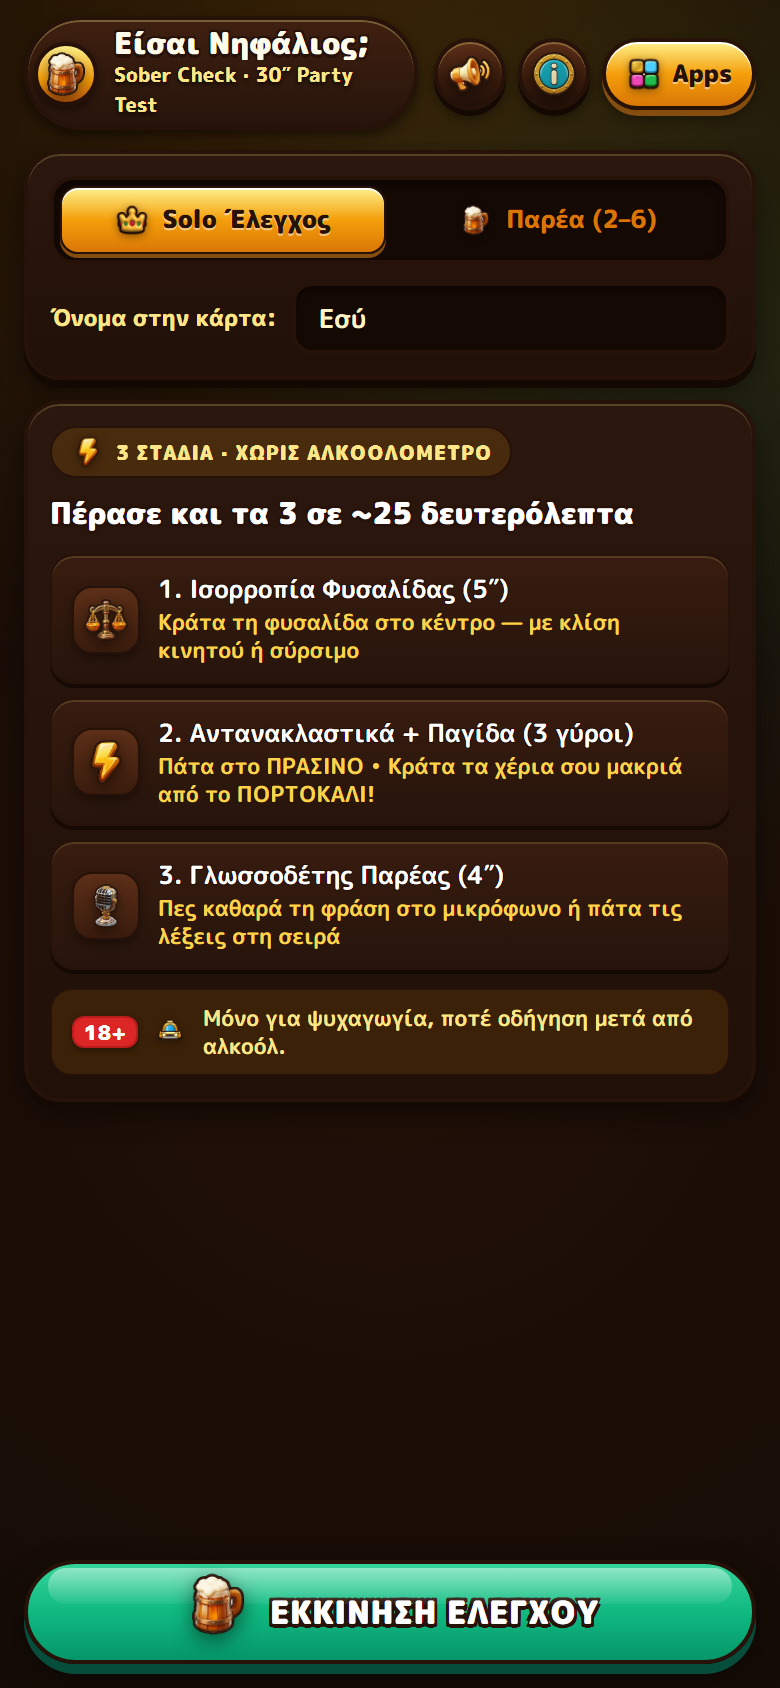
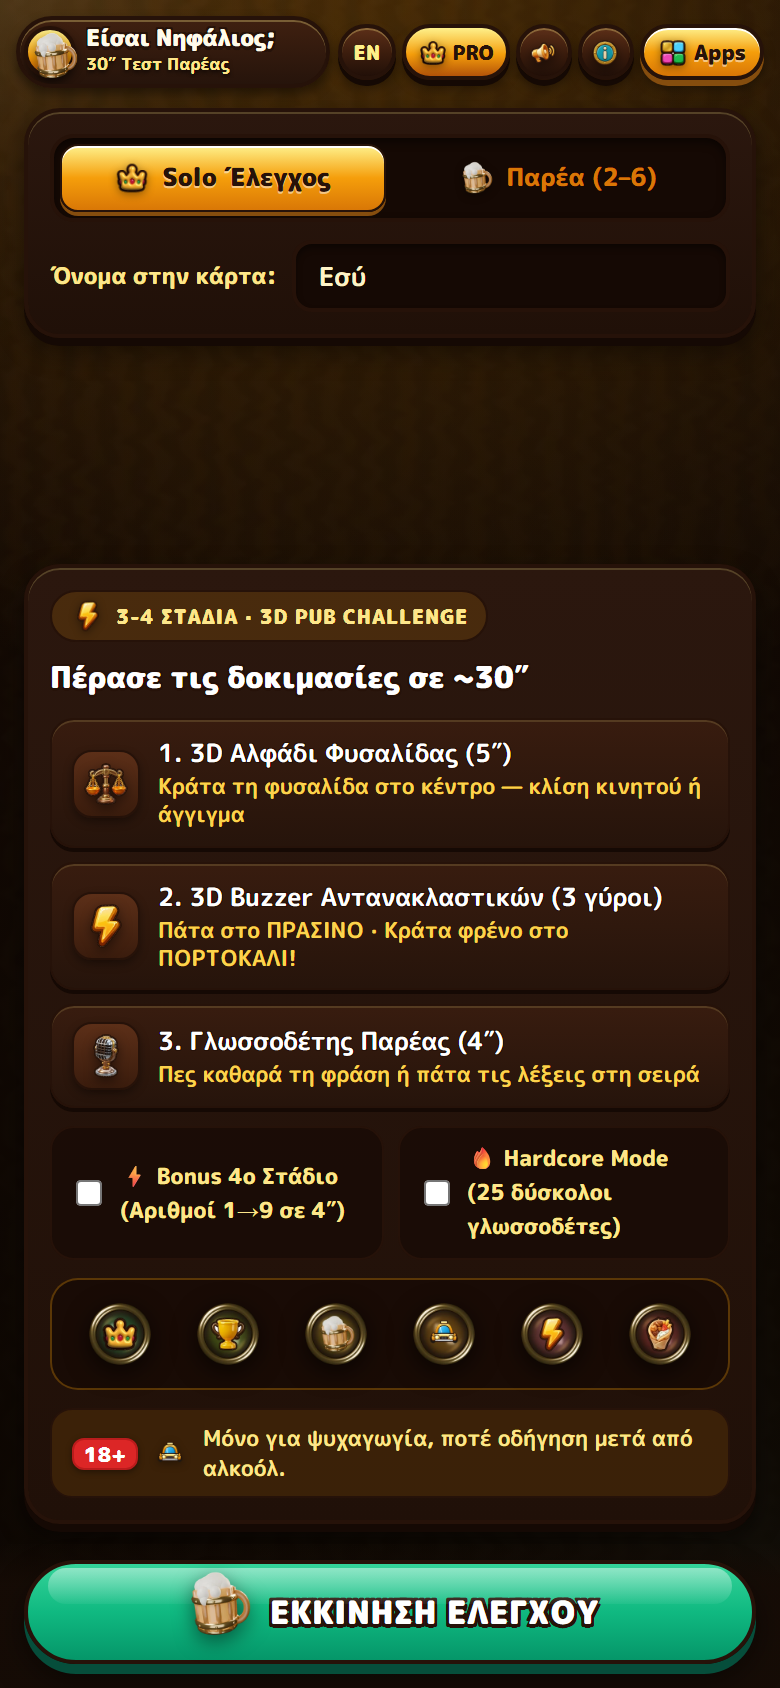
release: v1.2.0 - 3D brass medallions, 3D spirit level, 25+25 tongue twisters, 18+ compliance

diff --git a/README.md b/README.md
@@ -4,9 +4,9 @@
 
 # 🍺 Είσαι Νηφάλιος; — Sober Check
 
-**30″ Ελληνικό Τεστ Νηφαλιότητας για Solo & Παρέα — Ισορροπία Φυσαλίδας, Αντανακλαστικά με Παγίδα, Γλωσσοδέτης & 9:16 Story Κάρτα!**
+**30″ Δίγλωσσο (ΕΛ / EN) Τεστ Νηφαλιότητας για Solo & Παρέα — 3D Αλφάδι Φυσαλίδας, 3D Buzzer Παγίδα, 25+25 Γλωσσοδέτες, Bonus Στάδιο & Κάρτα 9:16!**
 
-*Greek 3-stage party sobriety challenge & 9:16 BAC card generator for Android & Web PWA — 100% on-device sensors & zero servers.*
+*Bilingual 3–4 stage party sobriety challenge & 9:16 BAC card generator for Android & Web PWA — 100% on-device sensors & zero servers.*
 
 [![Download Latest APK](https://img.shields.io/badge/Download%20APK-eisai--nifalios.apk-10B981?style=for-the-badge&logo=android&logoColor=white)](https://github.com/jemangr/eisai-nifalios-release/releases/latest/download/eisai-nifalios.apk)
 [![Play Live PWA](https://img.shields.io/badge/Play%20Live%20PWA-jemangr.app%2Feisai--nifalios-84CC16?style=for-the-badge)](https://jemangr.app/eisai-nifalios/)
@@ -28,23 +28,23 @@
   <tr>
     <td align="center" width="20%">
       <img src="./assets/screenshots/01-home-modes.png" alt="Αρχική & Τρόποι Παιχνιδιού" /><br />
-      <sub><b>1. Solo &amp; Παρέα (2–6)</b></sub>
+      <sub><b>1. 3D Pub Showcase &amp; Modes</b></sub>
     </td>
     <td align="center" width="20%">
-      <img src="./assets/screenshots/02-stage-balance.png" alt="Στάδιο 1 Ισορροπία Φυσαλίδας" /><br />
-      <sub><b>2. Ισορροπία 5″</b></sub>
+      <img src="./assets/screenshots/02-stage-balance.png" alt="Στάδιο 1 3D Αλφάδι" /><br />
+      <sub><b>2. 3D Αλφάδι 5″</b></sub>
     </td>
     <td align="center" width="20%">
-      <img src="./assets/screenshots/03-stage-reaction.png" alt="Στάδιο 2 Αντανακλαστικά" /><br />
-      <sub><b>3. Αντανακλαστικά &amp; Παγίδα</b></sub>
+      <img src="./assets/screenshots/03-stage-reaction.png" alt="Στάδιο 2 3D Buzzer" /><br />
+      <sub><b>3. 3D Buzzer &amp; Παγίδα</b></sub>
     </td>
     <td align="center" width="20%">
       <img src="./assets/screenshots/04-result-card.png" alt="Κάρτα Αποτελέσματος 9:16" /><br />
-      <sub><b>4. Κάρτα BAC · Save &amp; Share</b></sub>
+      <sub><b>4. Gold 9:16 · Medallions</b></sub>
     </td>
     <td align="center" width="20%">
       <img src="./assets/screenshots/05-party-leaderboard.png" alt="Κατάταξη Παρέας" /><br />
-      <sub><b>5. Κλειδιά vs Ταξί</b></sub>
+      <sub><b>5. MVP vs Ταξί</b></sub>
     </td>
   </tr>
 </table>
@@ -54,21 +54,22 @@
 
 ## 🔥 Τι περιλαμβάνει;
 
-* **⚖ Στάδιο 1 — Ισορροπία Φυσαλίδας (5″):** Κράτα τη φωτεινή φυσαλίδα μέσα στον πράσινο στόχο με κλίση κινητού (`DeviceOrientation`) ή σύρσιμο με το δάχτυλο.
-* **⚡ Στάδιο 2 — Αντανακλαστικά + Παγίδα (3 γύροι):** Πάτα αστραπιαία στο Πράσινο (ms) και κράτα φρένο όταν εμφανιστεί αιφνιδιαστικά η Πορτοκαλί Παγίδα!
-* **🗣 Στάδιο 3 — Γλωσσοδέτης Παρέας (4″):** Πες καθαρά έναν από τους 8 ελληνικούς γλωσσοδέτες στο μικρόφωνο (live waveform) ή πάτα τις 4 λέξεις στη σωστή σειρά.
-* **🎴 Πιστοποιητικό Νηφαλιότητας 9:16:** Σκορ 0–100, εικονικό BAC (`‰`), χιουμοριστικό roast & rank + ξεχωριστά κουμπιά **💾 Αποθήκευση** (Gallery / PNG) & **📤 Κοινοποίηση** για TikTok / Reels / Stories.
-* **🏆 Solo & Παρέα (2–6 άτομα):** Αναδεικνύει τον **🛡 Κρατάει Κλειδιά** και τον **🚕 Παίρνει Ταξί**.
+* **⚖ Στάδιο 1 — 3D Αλφάδι Φυσαλίδας (5″):** Κράτα τη φυσαλίδα μέσα στον πράσινο στόχο με κλίση κινητού ή σύρσιμο.
+* **⚡ Στάδιο 2 — 3D Push Buzzer + Παγίδα (3 γύροι):** Πάτα αστραπιαία στο Πράσινο Buzzer (ms) και κράτα φρένο στο Πορτοκαλί!
+* **🗣 Στάδιο 3 — 25 ΕΛ + 25 EN Γλωσσοδέτες (4″):** Πες καθαρά τη φράση στο μικρόφωνο (live waveform) ή πάτα τις 4 λέξεις στη σωστή σειρά (με Hardcore Pack!).
+* **⚡ Bonus Στάδιο 4:** Αριθμοί `1 → 9` σε 4″ για έξτρα βαθμούς.
+* **🏅 6 3D Brass Medallions & Κάρτα 9:16:** Σκορ 0–100, εικονικό BAC (`‰`), Gold VIP έκδοση, υπεύθυνο **«Κάλεσε Ταξί Τώρα»** button σε χαμηλά σκορ & Save/Share PNG.
+* **🏆 Solo & Παρέα (2–6 άτομα):** Αναδεικνύει τον **👑 MVP Νηφαλιότητας** και τον **🚕 Παίρνει Ταξί**.
 * **⚠ 18+ Προειδοποίηση:** Μόνο για ψυχαγωγία, ποτέ οδήγηση μετά από αλκοόλ.
 
 ---
 
-## 🌐 Περισσότερες Εφαρμοές από το `jemangr.app`
+## 🌐 Περισσότερες Εφαρμογές από το `jemangr.app`
 
 | App | Περιγραφή | Σύνδεσμος |
 | :--- | :--- | :--- |
-| 💀 **Έχεις Κότσια;** | Τέστ αντοχής & 6 σενάρια τρόμου/φάρσας με 9:16 βίντεο | [jemangr.app/test-kotsion](https://jemangr.app/test-kotsion/) |
-| ⚡ **Ποιος Πληρώνει;** | Ελληνική multi-touch ρουλέτα παρέας με plot twists | [jemangr.app/poios-plironei](https://jemangr.app/poios-plironei/) |
+| 💀 **Έχεις Κότσια;** | 7 σενάρια τρόμου/φάρσας με 9:16 κάρτα & βίντεο | [jemangr.app/test-kotsion](https://jemangr.app/test-kotsion/) |
+| ⚡ **Ποιος Πληρώνει;** | Ελληνική multi-touch ρουλέτα παρέας με 3D τραπέζια | [jemangr.app/poios-plironei](https://jemangr.app/poios-plironei/) |
 | 🎲 **GameNight** | 62 ελληνικά παιχνίδια παρέας offline σε ένα κινητό | [jemangr.app/gamenight](https://jemangr.app/gamenight/) |
 | 👻 **Pass & Play Terror** | Ασύμμετρο party horror & μυστήριο για 1–8 άτομα | [jemangr.app/pass-n-play-terror](https://jemangr.app/pass-n-play-terror/) |
 | 🤬 **Binelik AI** | Ξέσπα σε 13+ ελληνικούς AI χαρακτήρες | [jemangr.app/binelik-ai](https://jemangr.app/binelik-ai/) |

diff --git a/PRIVACY_POLICY.md b/PRIVACY_POLICY.md
@@ -1,20 +1,22 @@
-# 🔒 Privacy Policy — Είσαι Νηφάλιος; (Sober Check)
+# 🔒 Privacy Policy — Είσαι Νηφάλιος; (Sober Check · 18+)
 
-**Last updated:** 2026-11-20  
+**Last updated:** November 28, 2026  
 **Developer:** Giannis Oikonomakis ([jemangr.app](https://jemangr.app/el/))
 
-## 1. 100% On-Device Processing (Zero Servers)
+## 1. 100% On-Device Sensor & Audio Processing
 
-**Είσαι Νηφάλιος; (Sober Check)** processes everything locally inside your device:
+**Είσαι Νηφάλιος; (Sober Check)** (`app.jemangr.eisainifalios`) executes all gameplay locally inside your device:
 - **Motion / Orientation (`DeviceOrientationEvent`):** Used strictly in real time during Stage 1 to move the spirit-level bubble on screen. Zero motion logs leave your device.
 - **Microphone Audio (Stage 3, Optional):** When microphone permission is granted, live audio amplitude energy (RMS) is analyzed transiently in memory solely to animate the local waveform and compute speech clarity energy. **Audio is never recorded, stored, uploaded, or transmitted.** If you deny microphone access, you can complete Stage 3 seamlessly using the 4-word touch-order fallback.
-- **Generated 9:16 Result Cards:** Rendered strictly in-memory on an HTML5 `<canvas>` locally and saved or shared only when you explicitly tap **Αποθήκευση** or **Κοινοποίηση**.
+- **Generated 9:16 Result Cards:** Rendered strictly in-memory on an HTML5 `<canvas>` locally and saved or shared only when you explicitly tap Save or Share.
 - **Version Update Check:** Performs a lightweight read-only fetch to GitHub Releases `version.json` solely to inform you if a newer APK build exists.
 
-## 2. Zero Tracking or Accounts
+## 2. Advertising, Consent & In-App Unlock (Android)
 
-No user accounts, third-party analytics SDKs, advertising networks, cookies, or cloud databases are used.
+The Android app integrates optional rewarded videos and post-result frequency-capped interstitials via Google AdMob (`@capacitor-community/admob`, configured with mature `MA` content rating) alongside Google UMP GDPR consent dialogs where applicable, plus an optional **Party Pass Pro** one-time unlock via Google Play Billing. No user accounts or personal cloud databases are maintained.
 
-## 3. Entertainment-Only Disclaimer
+## 3. Entertainment-Only Disclaimer (18+)
 
-⚠ **Είσαι Νηφάλιος;** is strictly a party humor game and **NOT** a medical, forensic, or breathalyzer device. Do **NEVER** drive after consuming alcohol regardless of any game score.
+⚠ **18+ Είσαι Νηφάλιος;** is strictly an adult party entertainment game and **NOT** a medical, forensic, or breathalyzer device. Do **NEVER** drive after consuming alcohol regardless of any game score.
+
+Copyright © 2026 Giannis Oikonomakis (jemangr.app). All Rights Reserved.

diff --git a/CHANGELOG.md b/CHANGELOG.md
@@ -1,5 +1,19 @@
 # 📜 Changelog — Είσαι Νηφάλιος; (Sober Check)
 
+## v1.2.0 (2026-11-28)
+* 🏅 **6 3D Μπρούτζινα Μετάλλια Κατάταξης:** Renderαρισμένα 3D μετάλλια με ανάγλυφα σύμβολα (Κρύσταλλο MVP, Σταθερό Χέρι, Ψιλοζαλισμένος, Σουβλάκια, Κλειδωμένο Κινητό, Ταξί).
+* 🎯 **3D Αλφάδι & Μηχανικό Buzzer:** Αναβαθμισμένα γραφικά με 3D θήκη αλφαδιού και μεταλλικό buzzer με press animations.
+* 🗣 **25+25 Γλωσσοδέτες (Ελληνικά & Αγγλικά):** Μεγάλη συλλογή από γλωσσοδέτες διαβαθμισμένης δυσκολίας με αυτόματο διακόπτη γλώσσας.
+* 🔞 **18+ Compliance & Νομική Συμμόρφωση:** Σήμανση 18+, ξεκάθαρη νομική διατύπωση υπευθυνότητας και πλήρως ασφαλείς τίτλοι κατάταξης.
+* 🌐 **Full Bilingual Support (Ελληνικά / English):** Πλήρης υποστήριξη Αγγλικών (Sober Check), μεταφρασμένη κάρτα 9:16 και βαθμολογία.
+
+### English (v1.2.0)
+* 🏅 **6 3D Brass Rank Medallions:** Custom 3D embossed brass medallions (Crystal MVP, Steady Hand, Slightly Tipsy, Craving Souvlaki, Lock The Phone, Call a Taxi).
+* 🎯 **3D Spirit Level & Mechanical Buzzer:** Realistic 3D spirit level casing and brass buzzer with responsive physics.
+* 🗣 **25+25 Tongue Twisters (EL / EN):** Rich collection of Greek and English party tongue twisters with microphone and tap modes.
+* 🔞 **18+ Compliance & Safe Titles:** Prominent 18+ age rating badge, responsible drinking disclaimers, and store-compliant rank titles.
+* 🌐 **Full Bilingual Support (EL / EN):** Complete English localization (Sober Check), bilingual 9:16 story cards, and party leaderboard.
+
 ## v1.1.0 (2026-11-22)
 * 🎨 **Bouncy Cartoon 3D UI Overhaul (Pub Bar Wood & Brass 2γ):** Πλήρης αναβάθμιση του UI σε στυλ Gold & Goblins με βαθύ ξύλο μπάρας/μαόνι, μπρούτζινα & χρυσά bevels, και 3D σκαλιστά panels.
 * 🔤 **Offline Greek Cartoon Font (`GameDisplay`):** Ενσωμάτωση offline γραμματοσειράς `M PLUS Rounded 1c` (700, 800, 900) για ελληνικά και λατινικά, με παχύ cartoon περίγραμμα (`text-shadow` 4 κατευθύνσεων & canvas `GameDisplay`).

diff --git a/RELEASE_NOTES_v1.2.0.md b/RELEASE_NOTES_v1.2.0.md
@@ -1,0 +1,15 @@
+## Είσαι Νηφάλιος; v1.2.0 — Sober Check (18+)
+
+### Ελληνικά
+* 🏅 **6 3D Μπρούτζινα Μετάλλια Κατάταξης:** Renderαρισμένα 3D μετάλλια με ανάγλυφα σύμβολα (Κρύσταλλο MVP, Σταθερό Χέρι, Ψιλοζαλισμένος, Σουβλάκια, Κλειδωμένο Κινητό, Ταξί).
+* 🎯 **3D Αλφάδι & Μηχανικό Buzzer:** Αναβαθμισμένα γραφικά με 3D θήκη αλφαδιού και μεταλλικό buzzer με press animations.
+* 🗣 **25+25 Γλωσσοδέτες (Ελληνικά & Αγγλικά):** Μεγάλη συλλογή από γλωσσοδέτες διαβαθμισμένης δυσκολίας με αυτόματο διακόπτη γλώσσας.
+* 🔞 **18+ Compliance & Νομική Συμμόρφωση:** Σήμανση 18+, ξεκάθαρη νομική διατύπωση υπευθυνότητας και πλήρως ασφαλείς τίτλοι κατάταξης.
+* 🌐 **Full Bilingual Support (Ελληνικά / English):** Πλήρης υποστήριξη Αγγλικών (Sober Check), μεταφρασμένη κάρτα 9:16 και βαθμολογία.
+
+### English
+* 🏅 **6 3D Brass Rank Medallions:** Custom 3D embossed brass medallions (Crystal MVP, Steady Hand, Slightly Tipsy, Craving Souvlaki, Lock The Phone, Call a Taxi).
+* 🎯 **3D Spirit Level & Mechanical Buzzer:** Realistic 3D spirit level casing and brass buzzer with responsive physics.
+* 🗣 **25+25 Tongue Twisters (EL / EN):** Rich collection of Greek and English party tongue twisters with microphone and tap modes.
+* 🔞 **18+ Compliance & Safe Titles:** Prominent 18+ age rating badge, responsible drinking disclaimers, and store-compliant rank titles.
+* 🌐 **Full Bilingual Support (EL / EN):** Complete English localization (Sober Check), bilingual 9:16 story cards, and party leaderboard.
